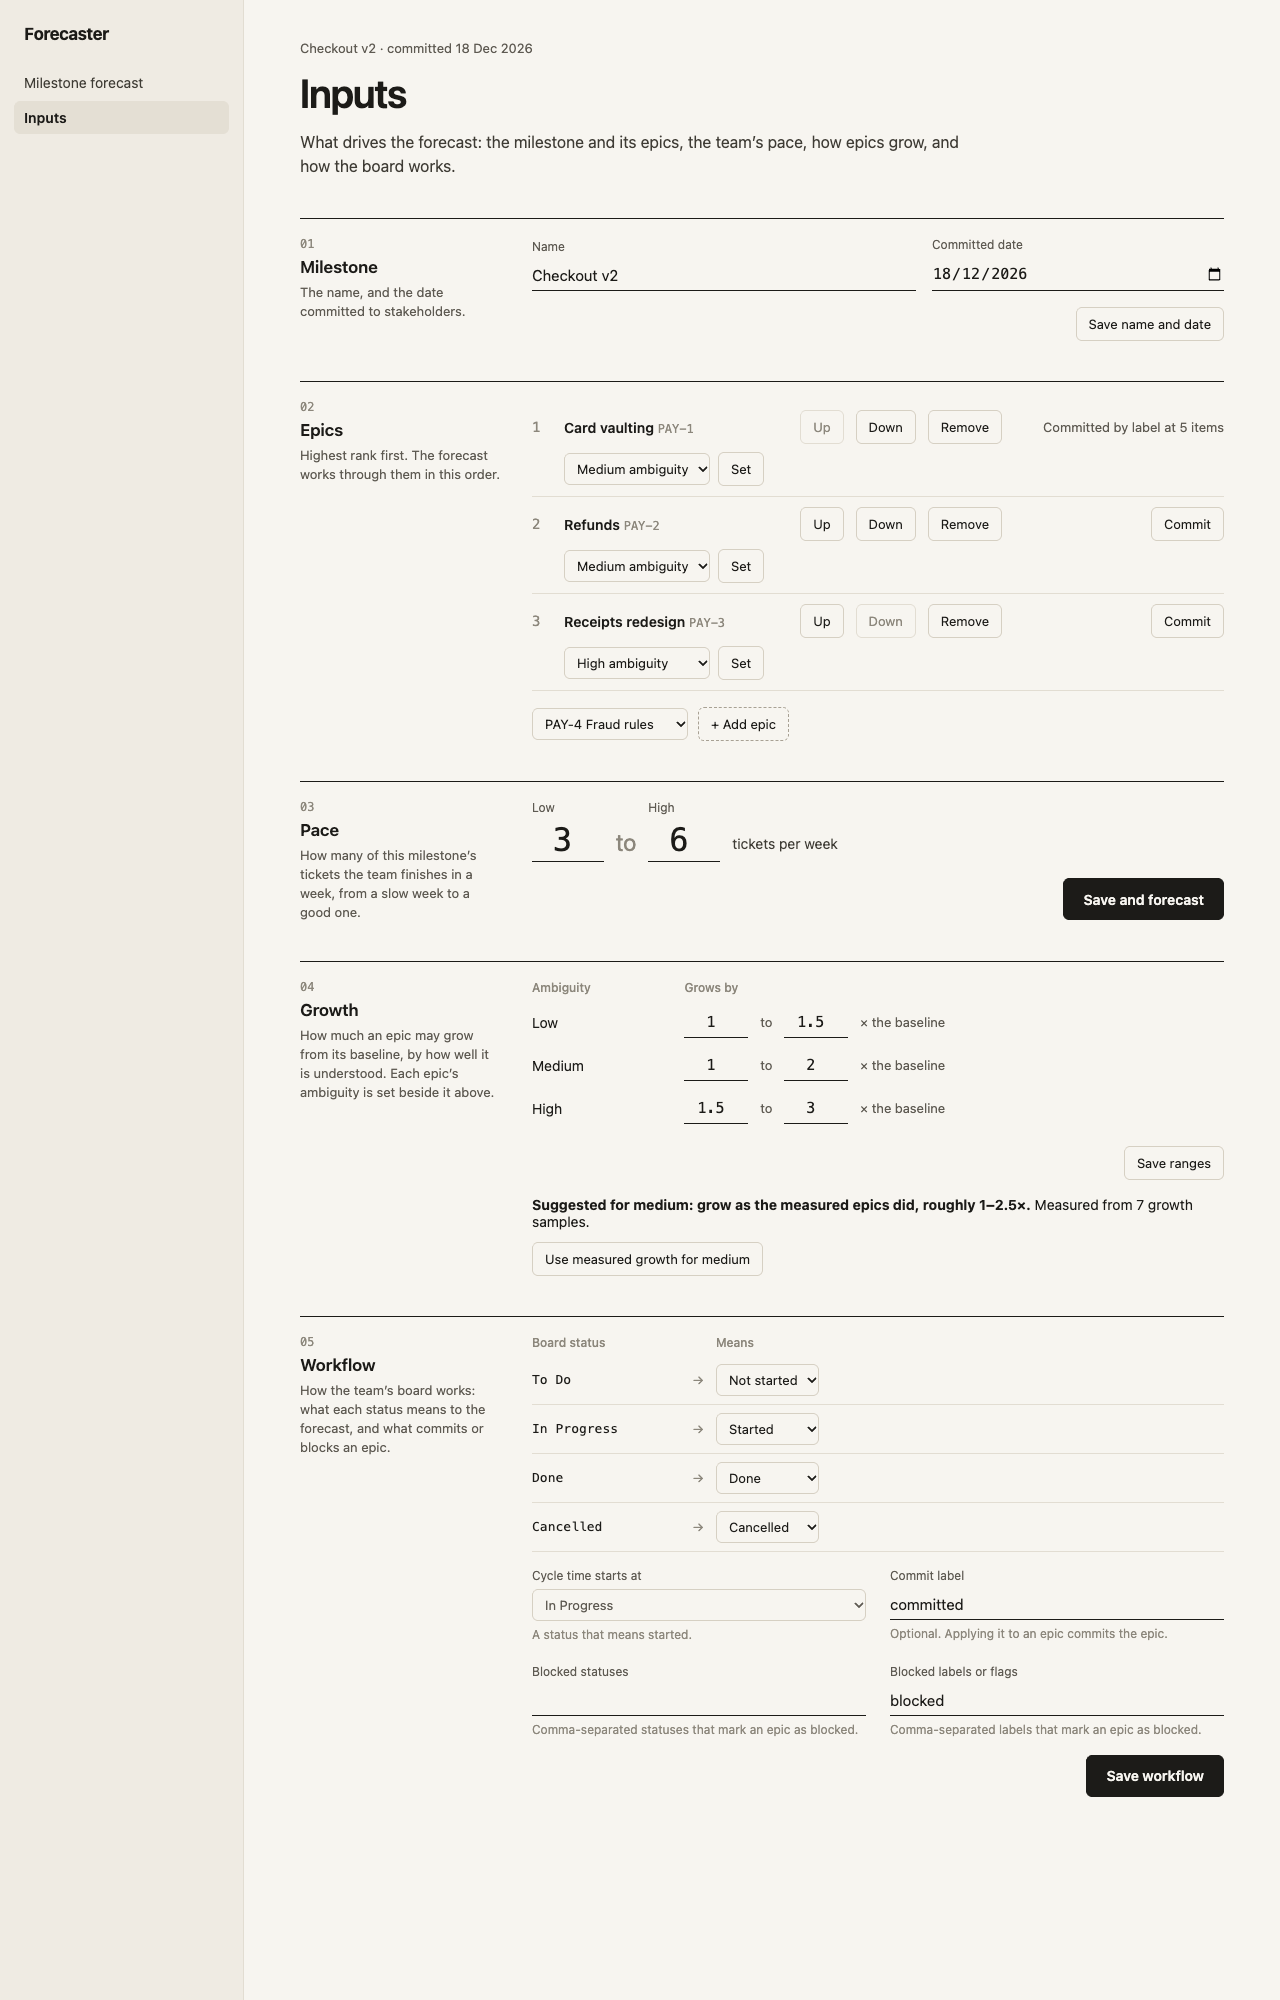
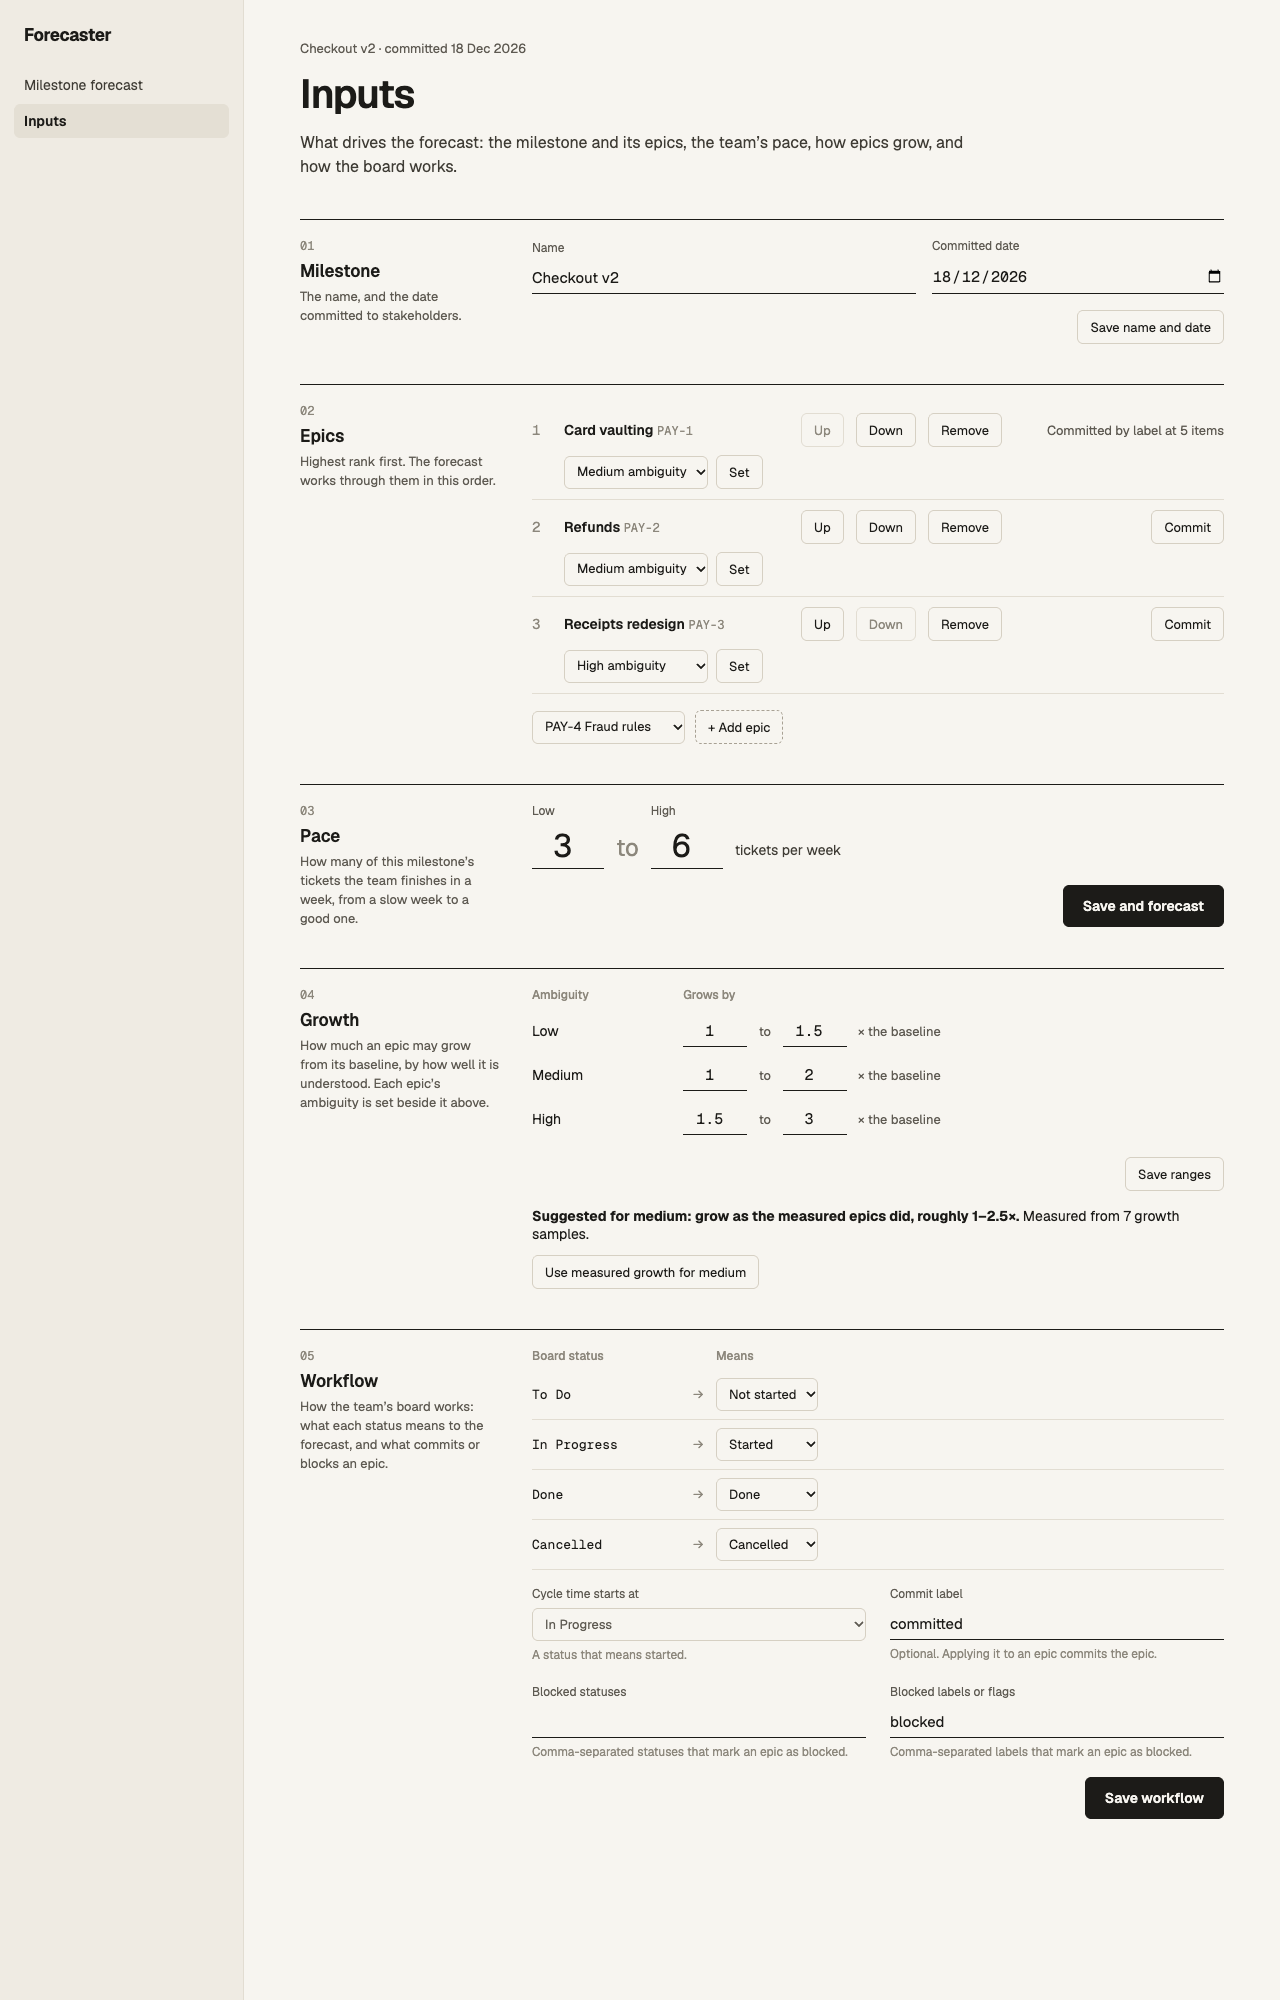
Demos: re-shoot #21 in Geist, after the web fonts load (#21)
Headless Chrome sometimes shot the page before Geist arrived, in the narrower system font.
The demo guide now waits with --virtual-time-budget.

diff --git a/docs/agents/demos.md b/docs/agents/demos.md
@@ -11,8 +11,8 @@ Give a ticket with a visible change the acceptance criterion `- [ ] Demo: screen
 1. Build the app and start it without opening a browser:
    `npm run build && PORT=5199 FORECASTER_NO_BROWSER=1 node dist/app/main.js &`
 2. Bring the screen into the state to show, using the canned sample data.
-3. Screenshot it with headless Chrome:
-   `"/Applications/Google Chrome.app/Contents/MacOS/Google Chrome" --headless --hide-scrollbars --window-size=1280,800 --screenshot=docs/demos/<issue>-<screen>-<state>.png <url>`
+3. Screenshot it with headless Chrome, giving the Geist web fonts time to load (without `--virtual-time-budget`, Chrome can shoot the page in the narrower system font):
+   `"/Applications/Google Chrome.app/Contents/MacOS/Google Chrome" --headless --hide-scrollbars --window-size=1280,800 --virtual-time-budget=5000 --screenshot=docs/demos/<issue>-<screen>-<state>.png <url>`
    A state that a URL alone can't reach (it needs clicks or typing) is captured with a browser automation tool instead.
 4. Open the image and check it shows the state, then stop the app.
 5. Commit the image to the ticket branch under `docs/demos/`.
